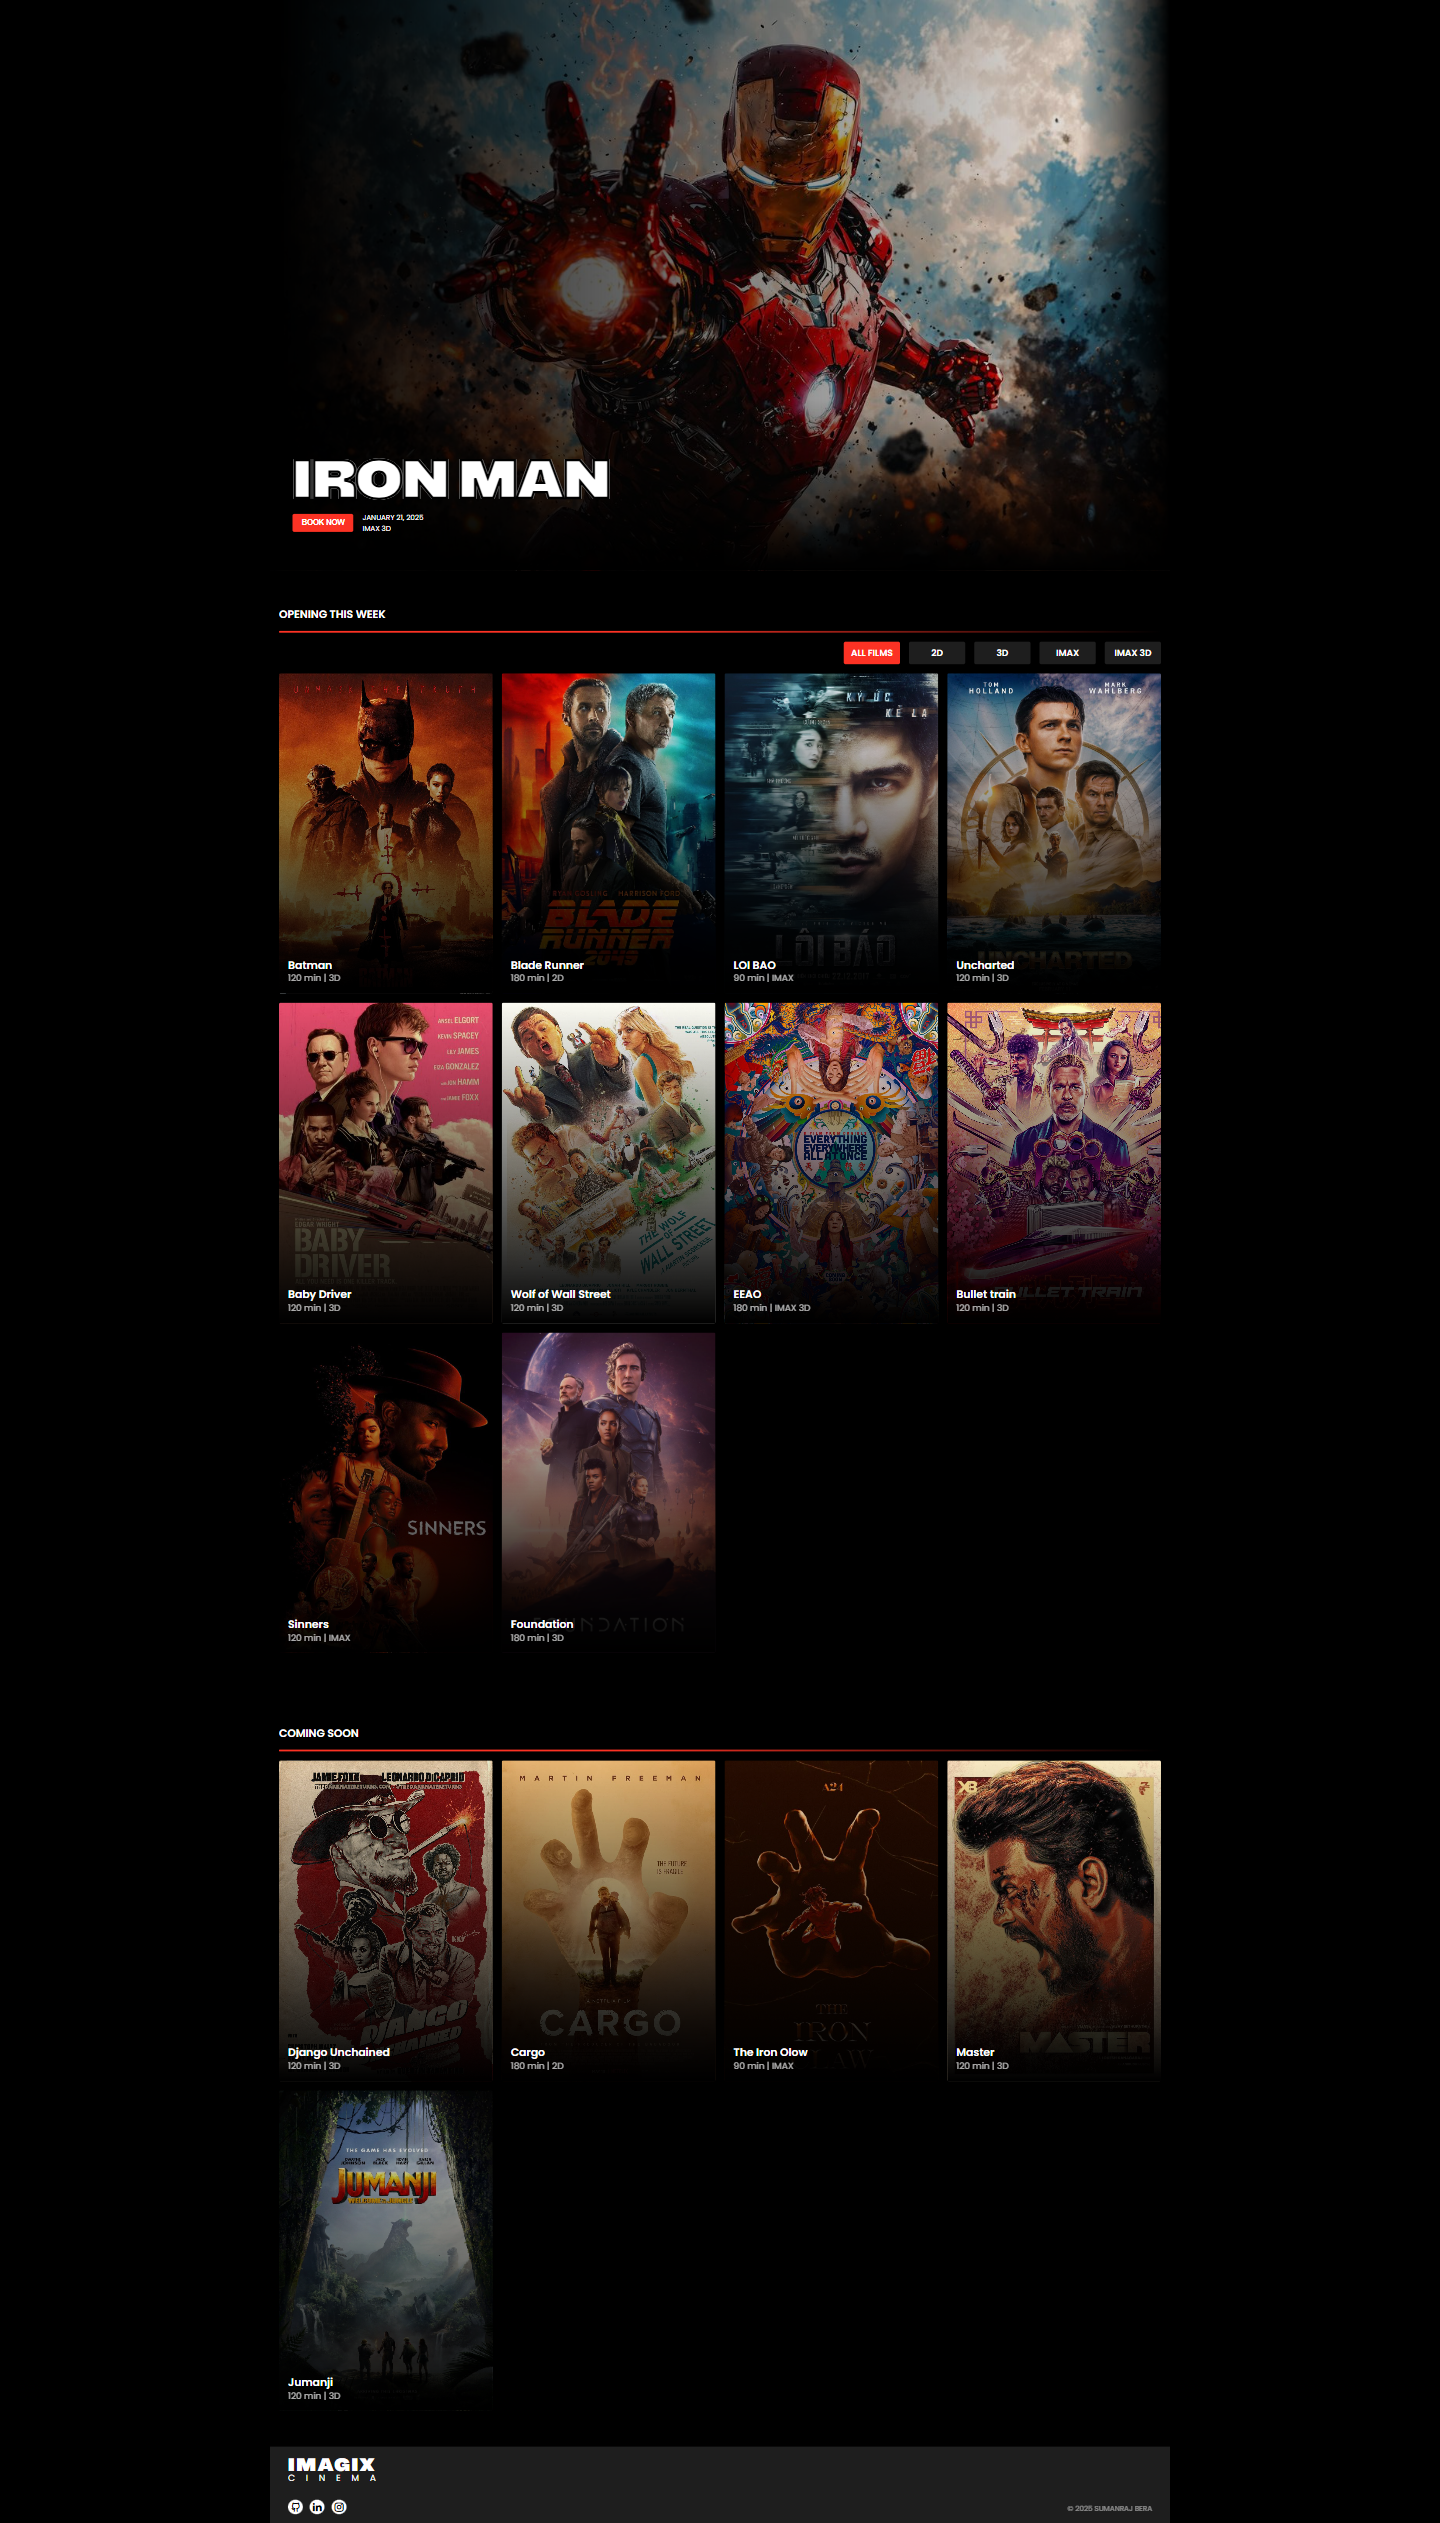
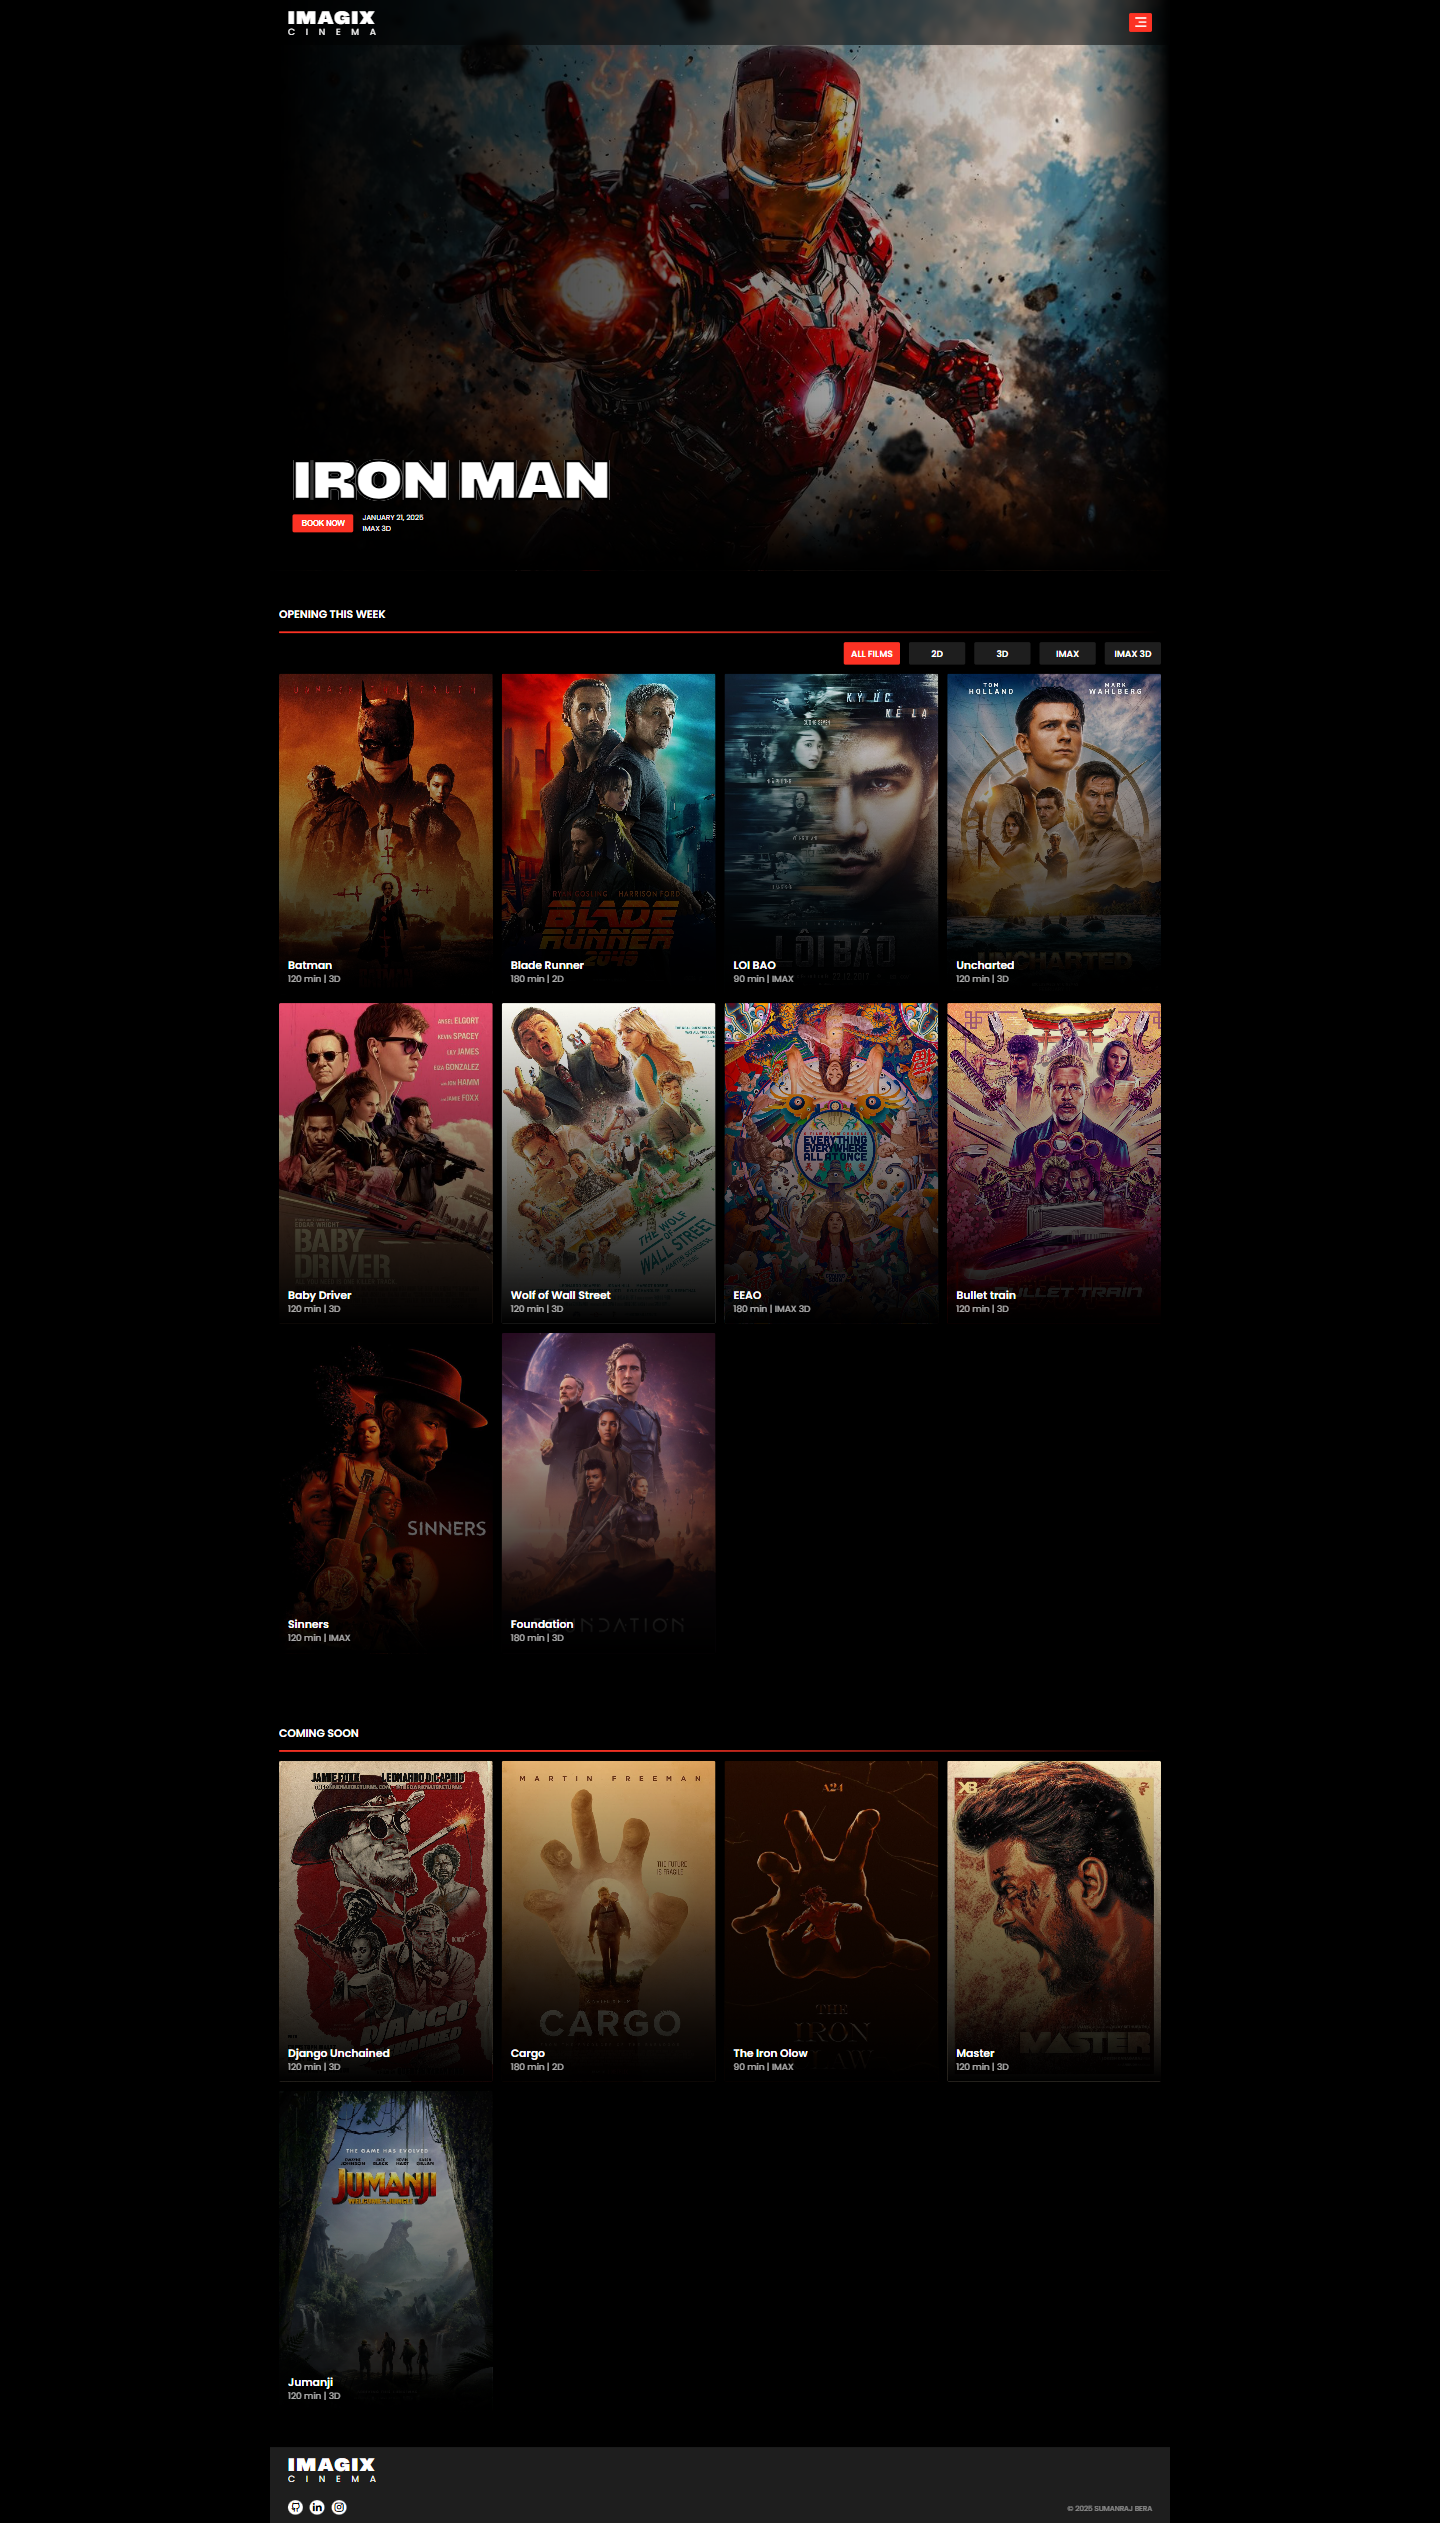
Solved the navbar issue

diff --git a/style.css b/style.css
@@ -41,6 +41,8 @@ main nav {
   -webkit-backdrop-filter: blur(5px);
           backdrop-filter: blur(5px);
   position: fixed;
+  top: 0;
+  z-index: 1000;
 }
 main nav .logo {
   text-transform: uppercase;

diff --git a/style.scss b/style.scss
@@ -58,6 +58,8 @@ main {
         backdrop-filter: blur(5px);
 
         position: fixed;
+        top: 0;
+        z-index: 1000;
 
         .logo {
             text-transform: uppercase;
